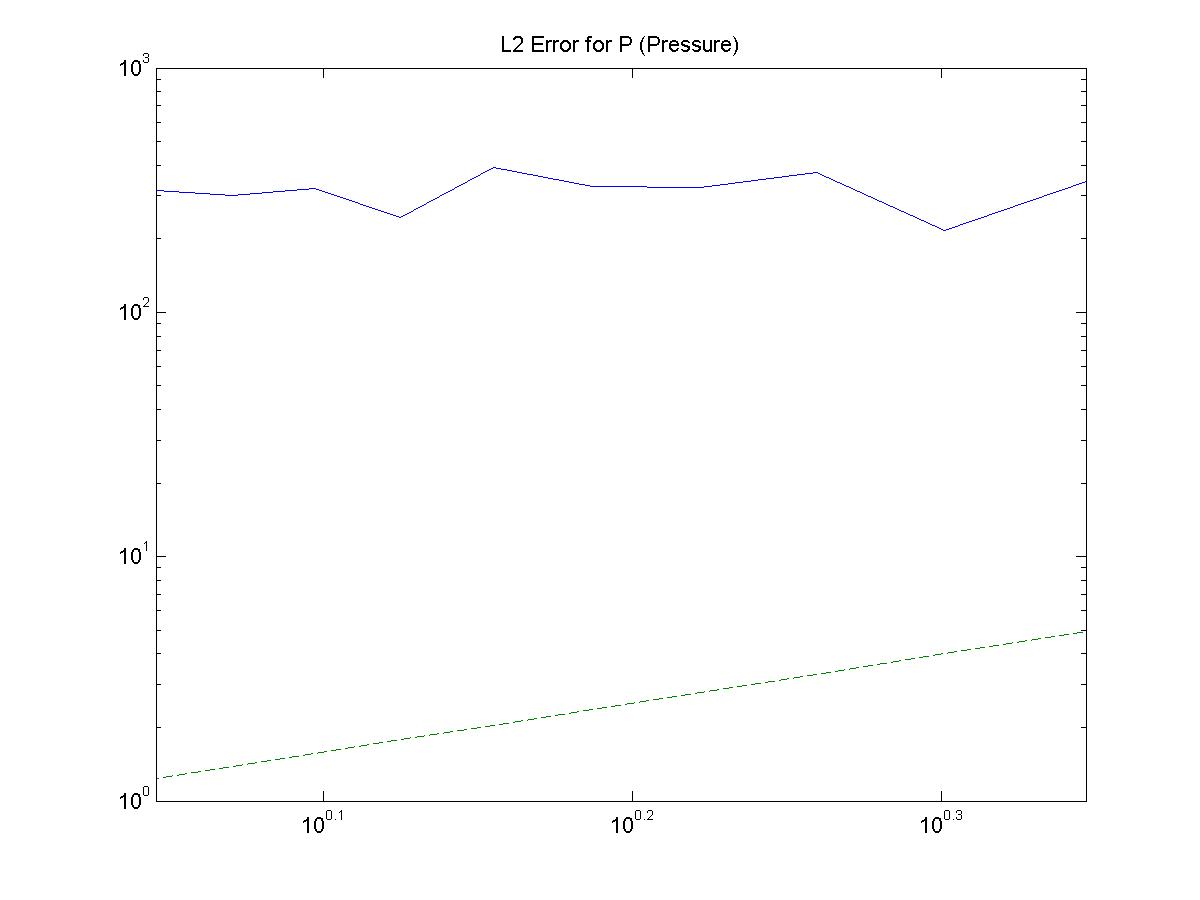
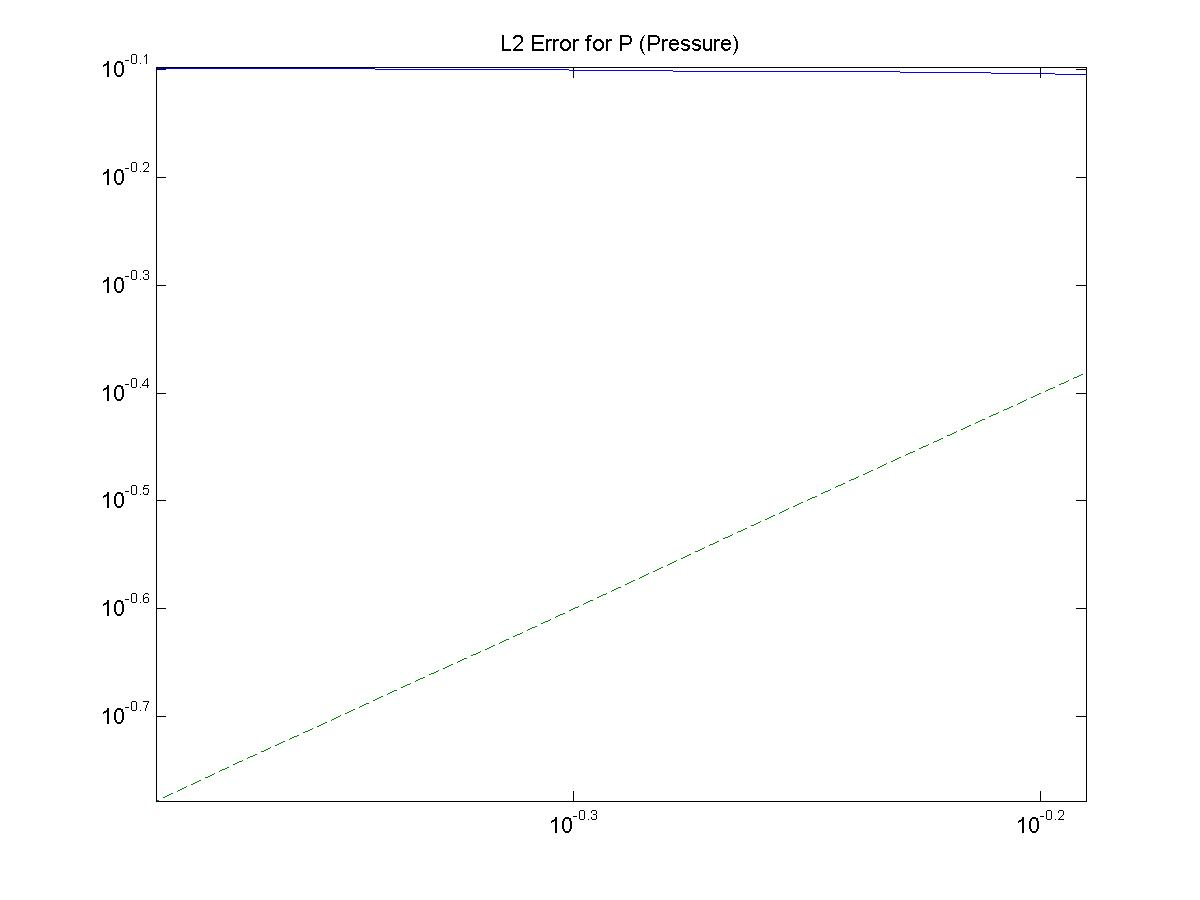
Added a convergence test with an analytical solution
Did not converge, it looks like the force / pressure is off by an order
of magnitude?

diff --git a/Stokes2DPC.m b/Stokes2DPC.m
@@ -1,6 +1,5 @@
 function [ P U V X Y numXCells numYCells dx] = Stokes2DPC(g, numYCells, p0, mu, height, width, R, L, numTimeSteps, debug)
 
-
 y = linspace(-height / 2, height / 2, numYCells);
 dx = y(2) - y(1);
 numXCells = round((width / dx) + 1);
@@ -21,12 +20,14 @@ end
 
 [F1 F2] = force(X, Y, mu, width, p0, g, R, dx, L);
 
-figure();
-surf(X,Y,F1);
-title('F1');
-figure();
-surf(X,Y,F2);
-title('F2');
+if debug
+    figure();
+    surf(X,Y,F1);
+    title('F1');
+    figure();
+    surf(X,Y,F2);
+    title('F2');
+end
 
 P = zeros(numYCells, numXCells, numTimeSteps);
 U = zeros(numYCells, numXCells, numTimeSteps);
@@ -45,6 +46,7 @@ for t = 1:numTimeSteps  %This loop will surround the entire algoritm
         for i=1:numXCells
             for j=1:numYCells
                 u(ind(i,j), t) = 0;
+                v(ind(i,j), t) = 0;
             end
         end
     end  
@@ -102,9 +104,13 @@ for t = 1:numTimeSteps  %This loop will surround the entire algoritm
     U_Star_Temp = tmp1(ind)';
     V_Star_Temp = tmp2(ind)';
    
-    figure(56789)
-    quiver(X,Y,U_Star_Temp,V_Star_Temp);
-    title('U* Quiver');
+    if debug
+        
+        figure(56789)
+        quiver(X,Y,U_Star_Temp,V_Star_Temp);
+        title('U* Quiver');
+        
+    end
     
     %%%%%%%%%%%%%%%%%%%%%%%%%%%Step 2 of algorithm%%%%%%%%%%%%%%%%%%%%%%%%%
     
@@ -144,35 +150,56 @@ for t = 1:numTimeSteps  %This loop will surround the entire algoritm
         %O(2) backward difference formula for right edge
         %px(M,j) = 0 = 3p(M,j)-4p(M-1,j)+1p(M-2,j)
         
-        A(ind(1,j), ind(1,j)) = -3;
-        A(ind(1,j), ind(2,j)) = 4;
-        A(ind(1,j), ind(3,j)) = -1;
-        b(ind(1,j)) = 0;
-        
-        A(ind(numXCells,j), ind(numXCells,j)) = 3;
-        A(ind(numXCells,j), ind(numXCells-1,j)) = -4;
-        A(ind(numXCells,j), ind(numXCells-2,j)) = 1;
-        b(ind(numXCells,j)) = 0;
+%         A(ind(1,j), ind(1,j)) = -3;
+%         A(ind(1,j), ind(2,j)) = 4;
+%         A(ind(1,j), ind(3,j)) = -1;
+%         b(ind(1,j)) = 0;
+%         
+%         A(ind(numXCells,j), ind(numXCells,j)) = 3;
+%         A(ind(numXCells,j), ind(numXCells-1,j)) = -4;
+%         A(ind(numXCells,j), ind(numXCells-2,j)) = 1;
+%         b(ind(numXCells,j)) = 0;
 
+        A(ind(1,j), ind(1,j)) = 1;
+        b(ind(1,j)) = 0;
+        A(ind(numXCells,j), ind(numXCells,j)) = 1;
+        b(ind(numXCells,j)) = 0;
     end
 
     %Top and bottom edges
     for i = 1:numXCells
 
-        %Neumann
-        A(ind(i,1), ind(i,1)) = -3;
-        A(ind(i,1), ind(i,2)) = 4;
-        A(ind(i,1), ind(i,3)) = -1;
+%         %Neumann
+%         A(ind(i,1), ind(i,1)) = -3;
+%         A(ind(i,1), ind(i,2)) = 4;
+%         A(ind(i,1), ind(i,3)) = -1;
+%         b(ind(i,1)) = 0;
+%         
+%         A(ind(i,numYCells), ind(i,numYCells)) = 3;
+%         A(ind(i,numYCells), ind(i,numYCells-1)) = -4;
+%         A(ind(i,numYCells), ind(i,numYCells-2)) = 1;
+%         b(ind(i,numYCells)) = 0;
+
+        A(ind(i,1),ind(i,1)) = 1;
         b(ind(i,1)) = 0;
-        
-        A(ind(i,numYCells), ind(i,numYCells)) = 3;
-        A(ind(i,numYCells), ind(i,numYCells-1)) = -4;
-        A(ind(i,numYCells), ind(i,numYCells-2)) = 1;
+        A(ind(i,numYCells),ind(i,numYCells)) = 1;
         b(ind(i,numYCells)) = 0;
-    
+        
     end
  
-    p(:, t) = pinv(A) * b;
+    %p(:, t) = pinv(A) * b;
+    
+    if debug
+        
+        figure();
+        surf(X,Y,b(ind(:,:)));
+        message = sprintf('b, t = %f',t);
+        title(message);
+        
+    end
+    
+    p(:,t) = A\b;
+    cond(A);
 
     %%%%%%%%%%%%%%%%%%%%%%%%%%%Step 3 of algorithm%%%%%%%%%%%%%%%%%%%%%%%%%
     %u_next = u_star - grad(p) 
@@ -188,8 +215,11 @@ for t = 1:numTimeSteps  %This loop will surround the entire algoritm
                     v(ind(i,j),t+1) = 0; 
                     u(ind(i,j),t+1) = 0; 
                 else
-                    u(ind(i,j),t+1) = u_star(ind(i,j),t) - (1/(2*dx)) * (p(ind(i,j),t) - p(ind(i-1,j),t) + p(ind(i,j-1),t) - p(ind(i-1,j-1),t));
-                    v(ind(i,j),t+1) = v_star(ind(i,j),t) - (1/(2*dx)) * (p(ind(i,j),t) - p(ind(i,j-1),t) + p(ind(i-1,j),t) - p(ind(i-1,j-1),t));
+                     u(ind(i,j),t+1) = u_star(ind(i,j),t) - (1/(2*dx)) * (p(ind(i,j),t) - p(ind(i-1,j),t) + p(ind(i,j-1),t) - p(ind(i-1,j-1),t));
+                     v(ind(i,j),t+1) = v_star(ind(i,j),t) - (1/(2*dx)) * (p(ind(i,j),t) - p(ind(i,j-1),t) + p(ind(i-1,j),t) - p(ind(i-1,j-1),t));
+
+                      %u(ind(i,j),t+1) = (1/(2*dx)) * (p(ind(i,j),t) - p(ind(i-1,j),t) + p(ind(i,j-1),t) - p(ind(i-1,j-1),t));
+                      %v(ind(i,j),t+1) = (1/(2*dx)) * (p(ind(i,j),t) - p(ind(i,j-1),t) + p(ind(i-1,j),t) - p(ind(i-1,j-1),t));
                 end
                 
 %                 if j==1

diff --git a/Main.m b/Main.m
@@ -3,7 +3,7 @@ close all;
 clc;
 
 animate = 1;
-checkL2E = 0;
+checkL2E = 1;
 
 %Pressure Differential (Right side)
 p0 = 0;
@@ -16,10 +16,10 @@ g = 0;
 
 height = 20;
 width = 20;
-R = 2;
-L = 8;
+R = 5;
+L = 5;
 %T = .25;
-timeSteps = 2;
+timeSteps = 1;
 
 quivRes = 1;
 %%%%%%%%%%%%%%%%%%%%%%%%%%%%%%%%%%%%%%%%%%%%%%%%%%%%%%%%%%%%%%%%%%%%%%%%%%
@@ -28,9 +28,13 @@ quivRes = 1;
 %%%%%%%%%%%%%%%%%%%%%%%%%%%%%%%%%%%%%%%%%%%%%%%%%%%%%%%%%%%%%%%%%%%%%%%%%%
 %Compute Stokes2DPCwith a high discretization and use it as the "analytical" solution
 %%%%%%%%%%%%%%%%%%%%%%%%%%%%%%%%%%%%%%%%%%%%%%%%%%%%%%%%%%%%%%%%%%%%%%%%%%
-num = 40;
+%num / 2 must be even
+num = 52;
 tic;
-[P U V X Y NUMXCELLS NUMYCELLS] = Stokes2DPC(g, num, p0, mu, height, width, R,L, timeSteps, 0);
+%[P U V X Y NUMXCELLS NUMYCELLS] = Stokes2DPC(g, num, p0, mu, height, width, R,L, timeSteps, 0);
+
+[P U V X Y NUMXCELLS NUMYCELLS] = pTest(height, width, R, L, timeSteps, num);
+
 toc;
 
 % i=2;
@@ -52,20 +56,8 @@ toc;
 %pcolor?
 %shading interp
 
-if(animate == 1)
-    
-    figure();
-    surf(X,Y,U(:,:,timeSteps));
-    title('U');
-    
-    figure();
-    surf(X,Y,V(:,:,timeSteps));
-    title('V');
-    
-    figure();
-    surf(X,Y,P(:,:,timeSteps));
-    title('P');
-    
+if animate
+   
     for i = 1:timeSteps
 
         figure();
@@ -80,10 +72,30 @@ if(animate == 1)
         streamline(X,Y,U(:,:,i),V(:,:,i),.1,-1);
         % streamline(X,Y,U,V,-width / 2, 0.1);
         % streamline(X,Y,U,V,-width / 2, -0.1);
+        
+        message = sprintf('UV Quiver, t = %f', i);
+        title(message);
+        
         drawnow;
         hold off;
-        title('UV Quiver');
-        pause();
+        
+%         figure();
+%         surf(X,Y,U(:,:,i));
+%         message = sprintf('U, t = %f', i);
+%         title(message);
+% 
+%         figure();
+%         surf(X,Y,V(:,:,i));
+%         message = sprintf('V, t = %f', i);
+%         title(message);
+% 
+        figure();
+        surf(X,Y,P(:,:,i));
+        message = sprintf('P, t = %f', i);
+        title(message);
+        drawnow;
+        
+        %pause();
     end
 end
 
@@ -91,12 +103,14 @@ end
 if checkL2E
 
     %Compute the L2E with 20 different grid spacing values
-    testPoints = (num/2 - 10): (num/2);
+    %Outputting NAN when n is odd
+    %testPoints = (num/2 - 20): 2 : (num/2);
+    testPoints = (num - 20): 2 : (num);
 
-    L2EP = zeros(testPoints(end),1);
-    L2EU = zeros(testPoints(end),1);
-    L2EV = zeros(testPoints(end),1);
-    dx = zeros(testPoints(end),1);
+    L2EP = zeros(10,1);
+    L2EU = zeros(10,1);
+    L2EV = zeros(10,1);
+    dx = zeros(10,1);
 
     % Compute the L2 error
     %2D: || u(x,y) || = sqrt( 1/M^2 sum_{j=1}^M sum_{k=1]^M u_{j,k}^2 }
@@ -104,8 +118,7 @@ if checkL2E
         testPoints(i)
         tic;
         [ p u v x y numXCells numYCells dx(i)] = Stokes2DPC(g, testPoints(i), p0, mu, height, width, R, L, timeSteps, 0);
-        toc;
-
+        
         %d(i) = (1-0) / (i - 1);
 
         for j=1:numXCells
@@ -121,6 +134,8 @@ if checkL2E
         L2EP(i) = sqrt(L2EP(i) / (numXCells * numYCells));
         L2EU(i) = sqrt(L2EU(i) / (numXCells * numYCells));
         L2EV(i) = sqrt(L2EV(i) / (numXCells * numYCells));
+        
+        toc;
     end
 
     figure();

diff --git a/force.m b/force.m
@@ -1,5 +1,7 @@
 function [ f1 f2 ] = force(x, y, mu, width, p0, g, R, dx, L)
 
+graph = 0;
+
 %alpha = 1;
 
 theta = atan2(y,x - (R + L));
@@ -12,7 +14,7 @@ alpha(id2) = 0;
 
 %E = 2 * dx;
 %E = 2 * .125;
-E = .25 * R;
+E = .5 * R;
 
 %z = x.^2 + y.^2 - R^2;
 z = sqrt((x - (R + L)).^2 + y.^2) - R;
@@ -26,8 +28,8 @@ delta (id1) = (1 + cos((pi * z(id1) / E))) / (2 * E);
 %f1 = delta .* (R + L + cos(theta));
 %f2 = delta .* sin(theta);
 
-f1 = delta .* ((x - (R + L))) ./ sqrt((x - (R + L)).^2 + y.^2);
-f2 = delta .* (y ./ (sqrt((x - (R + L)).^2 + y.^2)));
+f1 = (delta/R) .* ((x - (R + L))) ./ sqrt((x - (R + L)).^2 + y.^2);
+f2 = (delta/R) .* (y ./ (sqrt((x - (R + L)).^2 + y.^2)));
 
 % f1 = alpha .* delta .* (2*(x - (R+L)));
 % f2 = alpha .* delta .* (2*y);
@@ -35,14 +37,17 @@ f2 = delta .* (y ./ (sqrt((x - (R + L)).^2 + y.^2)));
 %f1 = f1';
 %f2 = f2';
 
+if graph
 
-figure(12345);
-hold on;
-quiver(x,y,f1,f2);
-title('F1 and F2');
-%quiver(x(1:quivRes:end,1:quivRes:end),Y(1:quivRes:end,1:quivRes:end),U(1:quivRes:end,1:quivRes:end, i),V(1:quivRes:end,1:quivRes:end, i));
-contour(x,y,z,[0,0]);
-hold off;
+    figure(12345);
+    hold on;
+    quiver(x,y,f1,f2);
+    title('F1 and F2');
+    %quiver(x(1:quivRes:end,1:quivRes:end),Y(1:quivRes:end,1:quivRes:end),U(1:quivRes:end,1:quivRes:end, i),V(1:quivRes:end,1:quivRes:end, i));
+    contour(x,y,z,[0,0]);
+    hold off;
+    
+end
 
 
 end

diff --git a/pTest.m b/pTest.m
@@ -1,0 +1,31 @@
+function [P U V X Y nx ny]  = pTest(h, w, R, L, ts, ny)
+
+%%%%%%%%%%%%%%The value of E might change%%%%%%
+E = .5 * R;
+%%%%%%%%%%%%%%%%%%%%%%%%%%%%%%%%%%%%%%%%%%%%%%%
+
+y = linspace(-h / 2, h / 2, ny);
+dx = y(2) - y(1);
+nx = round((w / dx) + 1);
+%X = linspace(-width / 2, width / 2, numXCells);
+x = linspace(0, w, nx);
+[X Y] = meshgrid(x,y);
+
+P = zeros(ny, nx, ts);
+U = zeros(ny, nx, ts);
+V = zeros(ny, nx, ts);
+
+z = sqrt( (X-(L+R)).^2 + Y.^2 ) - R;
+
+id = -E < z & z < E;
+id2 = z < -E;
+
+temp = zeros(ny,nx);
+
+for i = 1:ts
+    temp(id) = -1/(2*R)*(z(id)/E + sin(pi*z(id)/E)/pi);
+    temp(id2) = -1/(2*R);
+    P(:,:,i) = temp;
+end
+
+end
